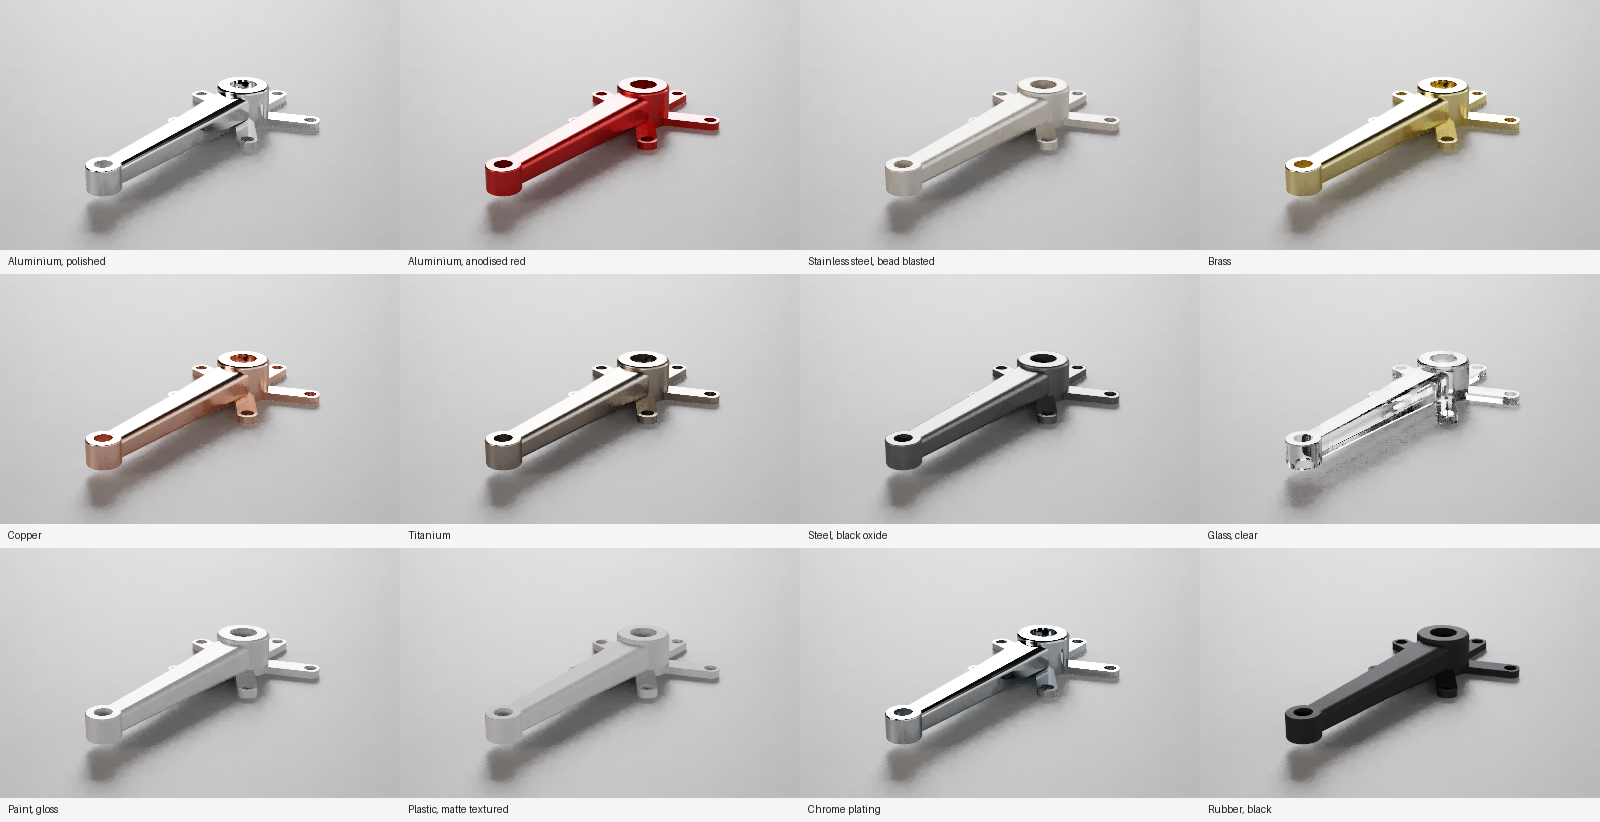
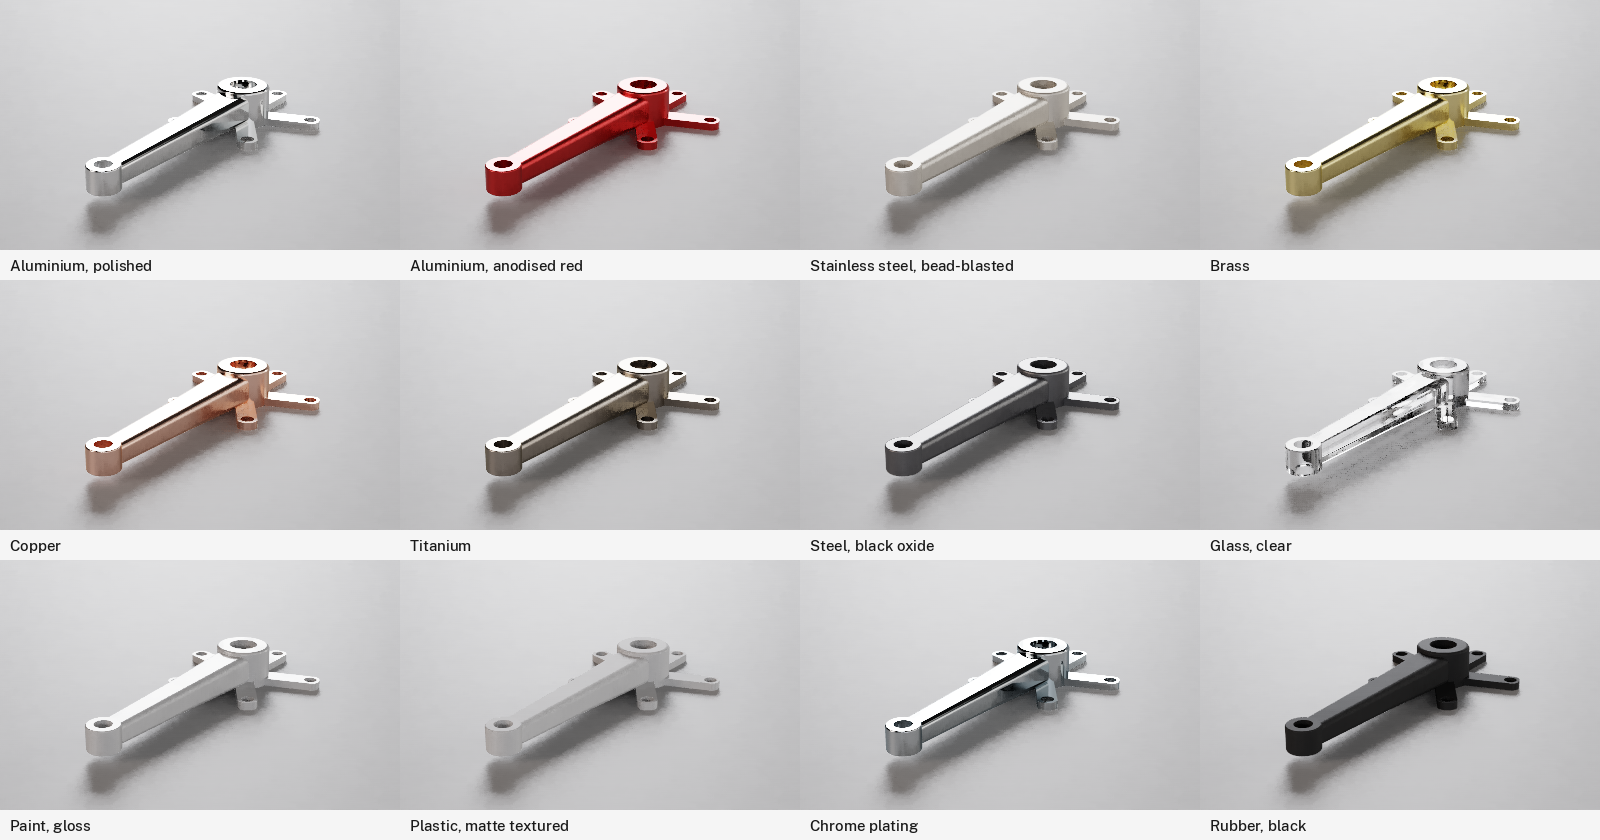
Render Studio: parallel view says it has no lens, rows' words left-aligned; fresh environment shots (1400x860, 1024x700); swatch labels in a real font
Claude-Session: https://claude.ai/code/session_01WJtawz369LCQvS1hpKDMaJ

diff --git a/interface/forge-render/src/shell/studio_env.rs b/interface/forge-render/src/shell/studio_env.rs
@@ -51,7 +51,8 @@ pub struct StudioUi {
     pub floor: bool,
     pub denoise: bool,
     pub depth_of_field: bool,
-    /// The view's focal length, mm (35 mm frame), as the GUI found it: shown, not set.
+    /// The view's focal length, mm (35 mm frame), as the GUI found it: shown, not set; 0 for a
+    /// parallel view.
     pub view_focal_mm: f32,
     pub f_number: f32,
     pub size: (u32, u32),
@@ -182,7 +183,14 @@ pub(super) fn command(s: &mut Shell, c: u16) {
 /// A setting's row: its words with its value and unit, then its control.
 fn row(ui: &mut Ui, label: String, control: impl FnOnce(&mut Ui)) {
     ui.horizontal(|ui| {
-        ui.add_sized([128.0, 18.0], egui::Label::new(label).truncate());
+        ui.allocate_ui_with_layout(
+            egui::vec2(128.0, 18.0),
+            egui::Layout::left_to_right(egui::Align::Center),
+            |ui| {
+                ui.set_min_width(128.0);
+                ui.add(egui::Label::new(label).truncate());
+            },
+        );
         control(ui);
     });
 }
@@ -273,7 +281,11 @@ pub(super) fn browser(s: &mut Shell, ui: &mut Ui, r: Rect) -> bool {
 
             head(ui, s, "Camera");
             ui.label(
-                RichText::new(format!("Lens {:.0} mm (the view's)", st.view_focal_mm))
+                RichText::new(if st.view_focal_mm > 0.0 {
+                    format!("Lens {:.0} mm (the view's)", st.view_focal_mm)
+                } else {
+                    "Parallel view: no lens (Camera › Perspective)".into()
+                })
                     .color(s.theme.ink2),
             );
             row(ui, format!("Aperture f/{:.1}", st.f_number), |ui| {

diff --git a/interface/forge-render/tests/studio_env.rs b/interface/forge-render/tests/studio_env.rs
@@ -69,3 +69,40 @@ fn the_studio_traces_the_view_and_renders_a_file() {
     h.step();
     assert_eq!(h.gui.shell.view_tex, shaded);
 }
+
+/// The environment as David sees it, for research/render/studio/: an assembly in mixed finishes
+/// under the bundled HDRI, at the window's usual size and at 1024x700. Only with STUDIO_SHOTS.
+#[test]
+fn shots_of_the_environment() {
+    let Ok(dir) = std::env::var("STUDIO_SHOTS") else {
+        return;
+    };
+    for (w, h) in [(1400.0, 860.0), (1024.0, 700.0)] {
+        let mut h_ = match Headless::new((w, h), 1.0) {
+            Ok(h) => h,
+            Err(e) => {
+                eprintln!("skipped: {e}");
+                return;
+            }
+        };
+        h_.step();
+        let asm = concat!(env!("CARGO_MANIFEST_DIR"), "/../../examples/sheetmetal/tray_asm.fg");
+        h_.gui.open(asm);
+        assert!(h_.until(settled), "never built: {}", h_.gui.shell.status);
+        h_.gui.shell.enter_env(EnvId::RenderStudio).unwrap();
+        h_.step();
+        h_.step();
+        let looks = ["Aluminium, bead-blasted", "Steel, black oxide", "Powder coat", "Stainless steel, brushed"];
+        let st = &mut h_.gui.shell.studio;
+        for (k, l) in st.looks.iter_mut().enumerate() {
+            *l = Some(looks[k % looks.len()].into());
+        }
+        st.version += 1;
+        let start = std::time::Instant::now();
+        while h_.gui.shell.studio.samples < 256 && start.elapsed().as_secs() < 300 {
+            h_.step();
+        }
+        let png = h_.png().unwrap();
+        std::fs::write(format!("{dir}/studio-env-{}x{}.png", w as u32, h as u32), png).unwrap();
+    }
+}

diff --git a/interface/forge-render/src/gui_studio.rs b/interface/forge-render/src/gui_studio.rs
@@ -189,7 +189,7 @@ impl Gui {
         // the camera, the settings
         let cam = &v.nav.camera;
         let mut view = View::of(cam);
-        st.view_focal_mm = view.focal_mm();
+        st.view_focal_mm = if cam.parallel { 0.0 } else { view.focal_mm() };
         if st.depth_of_field && !cam.parallel {
             view = view.with_lens(view.focal_mm(), Some(st.f_number), cam.dist);
         }

diff --git a/research/render/studio/README.md b/research/render/studio/README.md
@@ -14,4 +14,5 @@ Design: ../studio.md.
 | 05-turntable-brass.png | eight frames of `--turntable 8`, brass, empty_warehouse_01 (Sergej Majboroda) | `--look Brass --turntable 8 --size 320x200 --spp 64` |
 
 Every picture is denoised (the studio's own variance-guided a-trous filter) unless it says not.
-| 06-render-studio-environment.png | the Render Studio environment in the app (branch render/studio-ui, on ui/environments): its ribbon, the browser (appearance per part, lighting, camera, output) and the view traced live, here 89 samples denoised on llvmpipe | `STUDIO_SHOTS=DIR cargo test --release --test studio_env` |
+| 06-render-studio-environment.png | the Render Studio environment in the app (native, headless, llvmpipe), 1400x860: tray_asm.fg in bead-blasted aluminium and black oxide under the bundled HDRI, 255 samples denoised in the live view | `STUDIO_SHOTS=DIR cargo test --release --test studio_env shots` |
+| 07-render-studio-environment-1024x700.png | the same at 1024x700 | the same |
